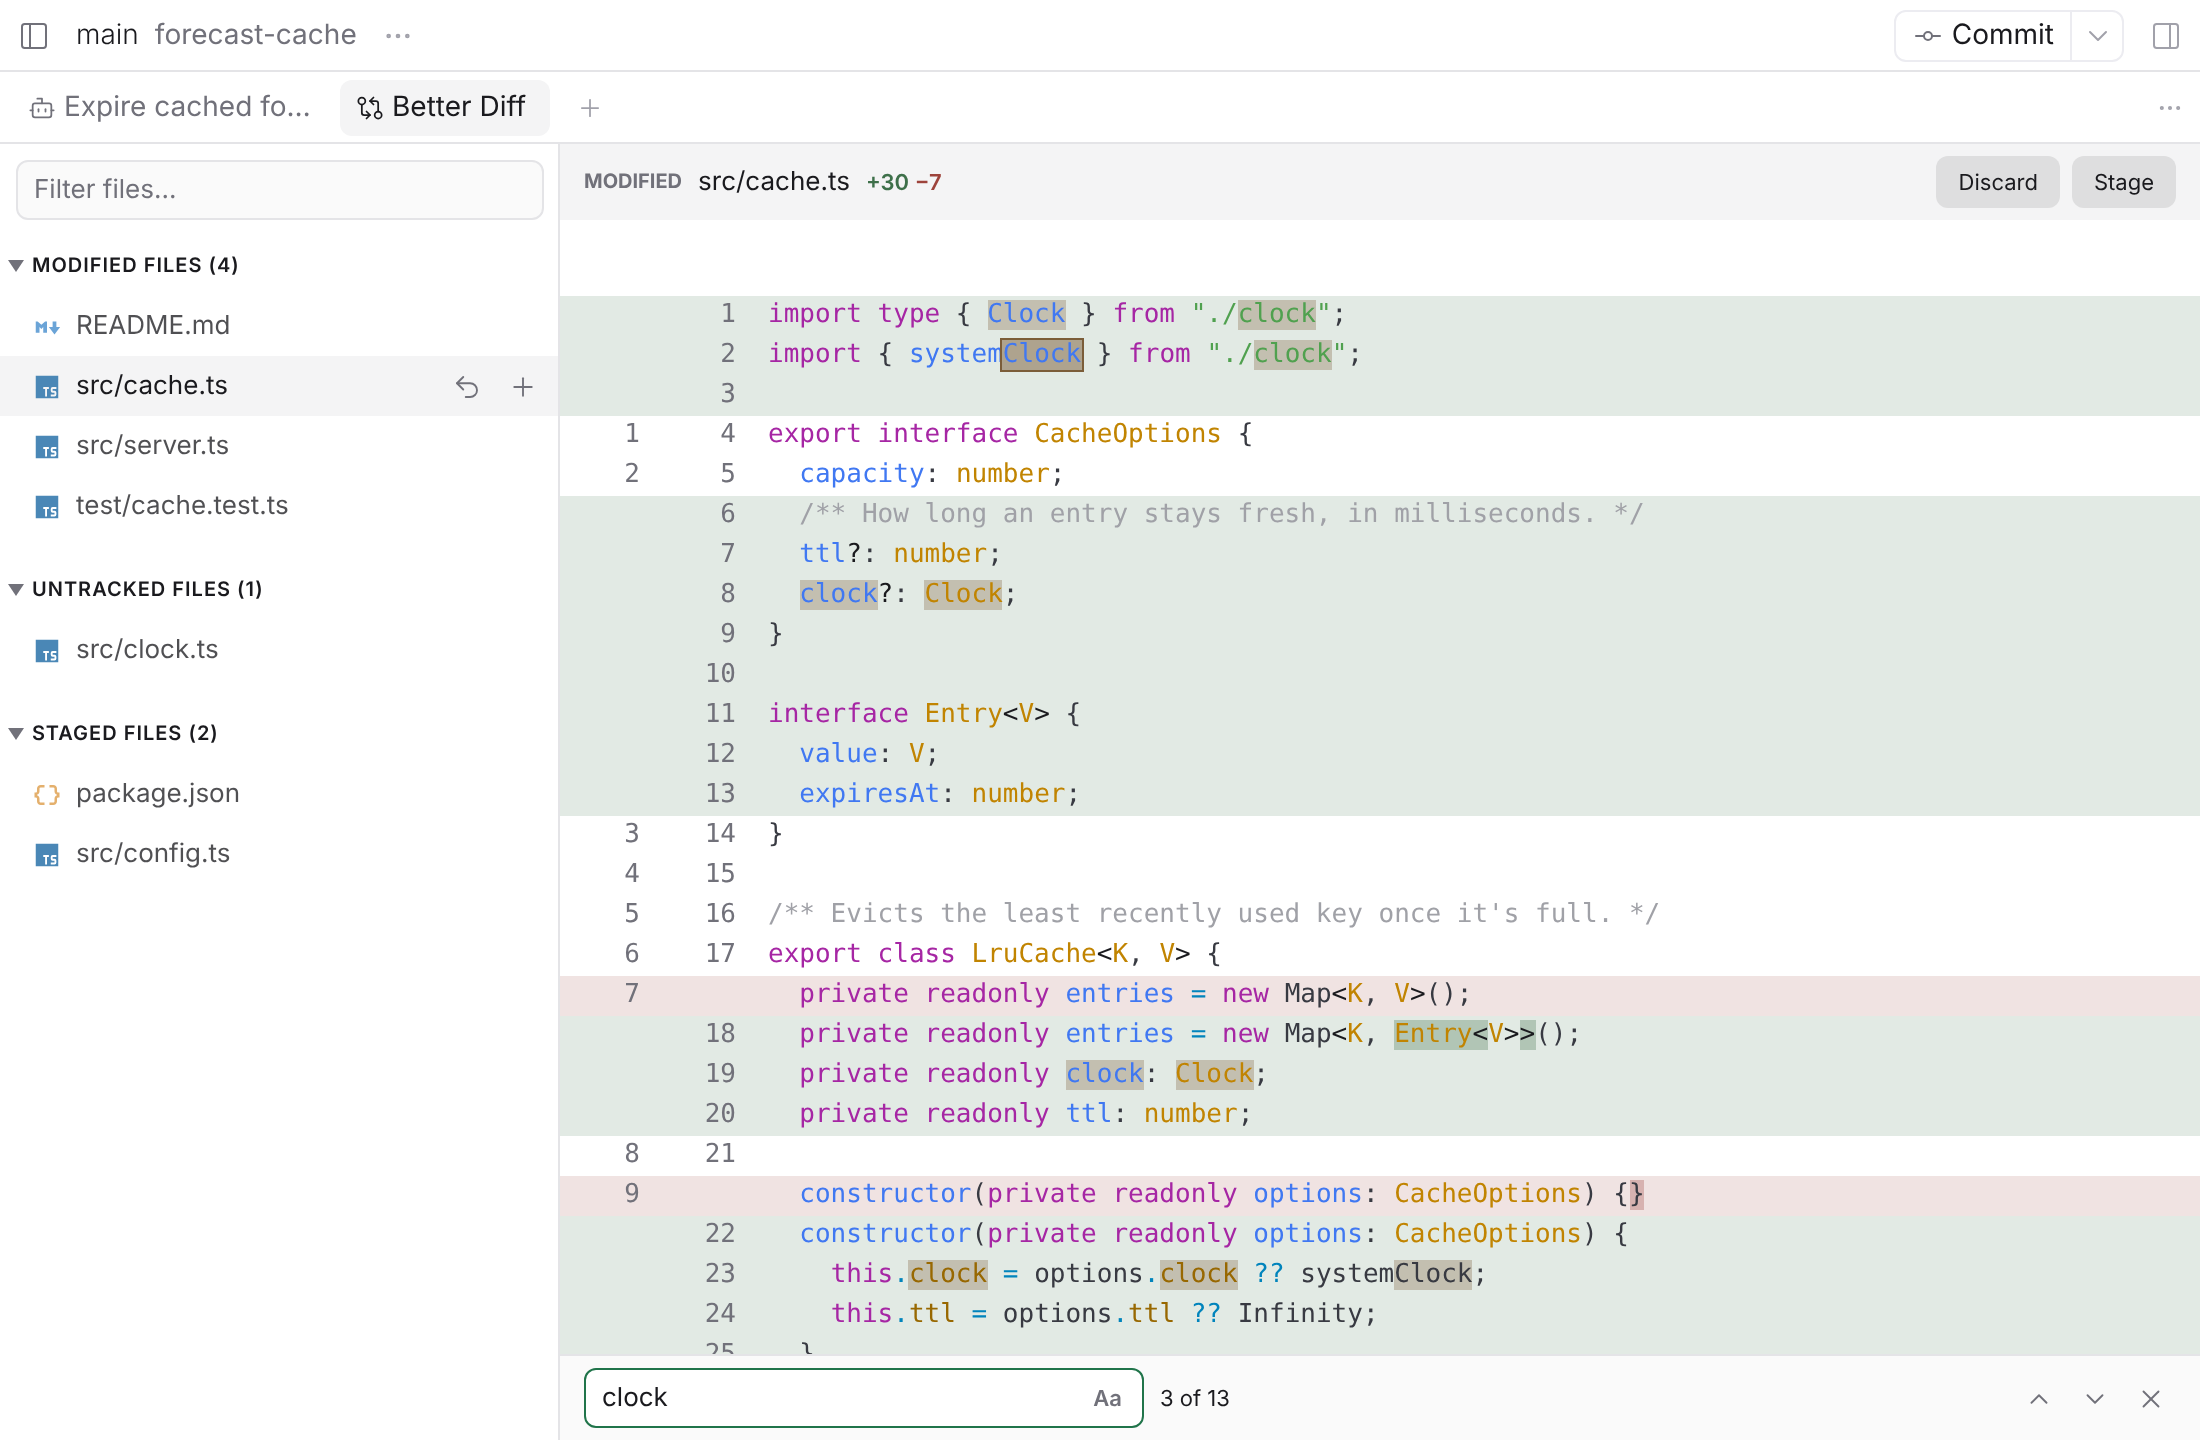
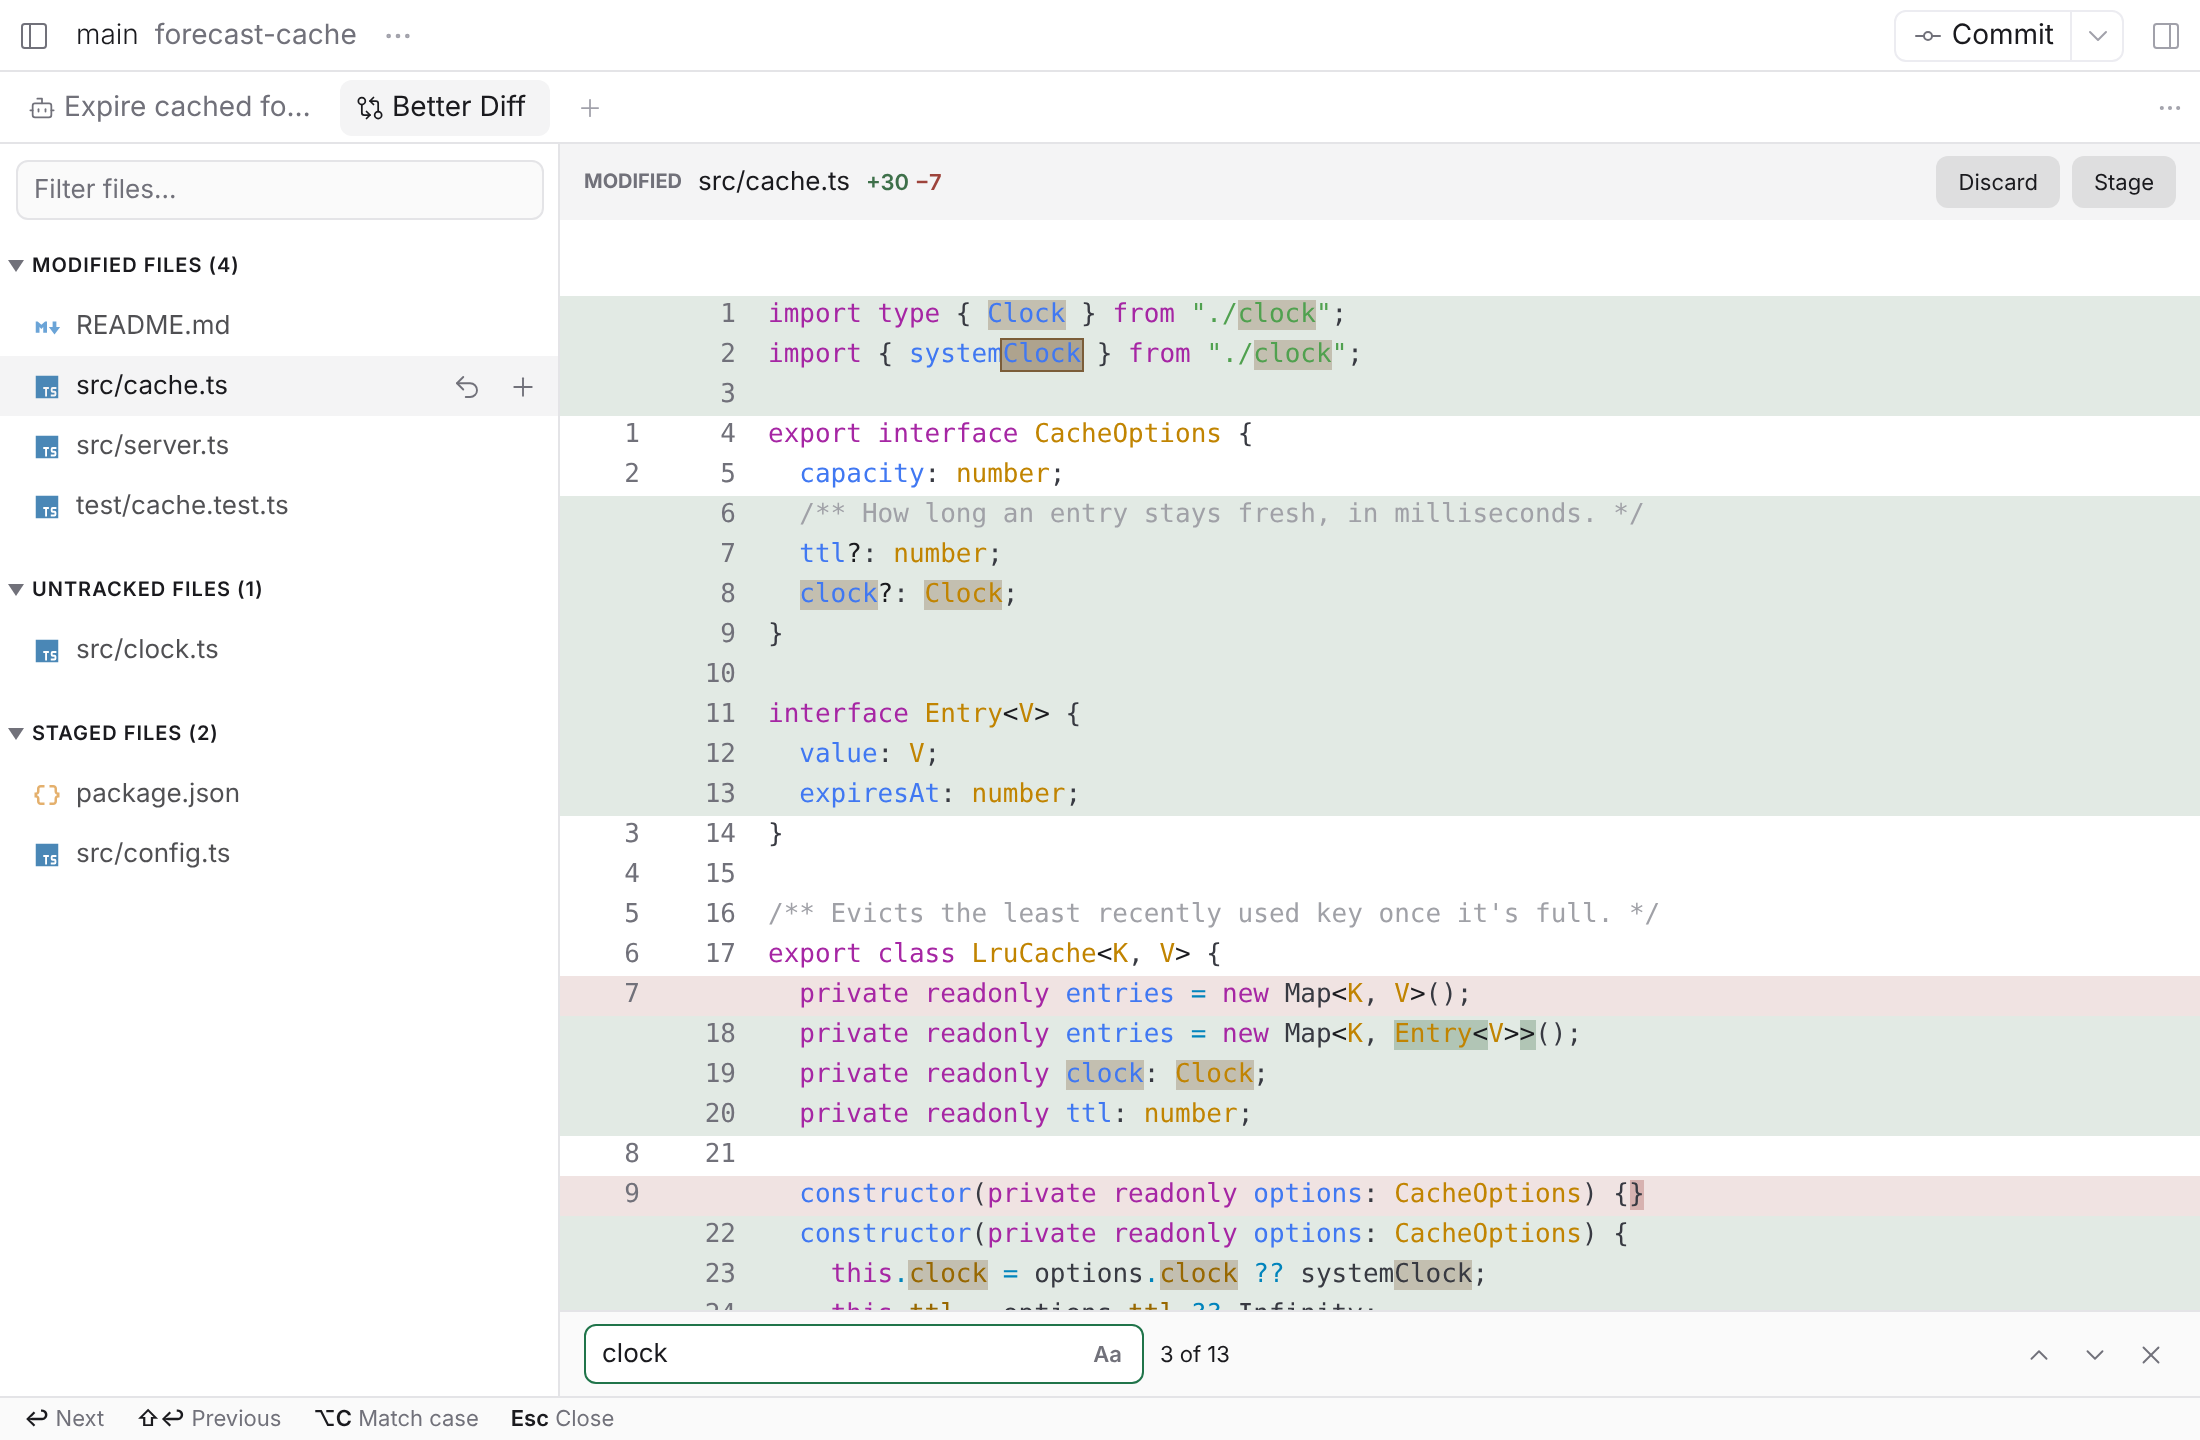
Bring the README's screenshots and SPEC.md's refresh times up to date
The screenshots now show the strip of keys along the bottom of the
panel, and the review's tab without the mark of unsaved work, which it
no longer has. A change nothing tells of shows within about 300 times
as long as git status takes where it's slow, not within a minute: the
long poll's timeout that bounded it is gone.

Changed region(s): [[0.0, 0.9062, 0.5564, 1.0], [0.5873, 0.9062, 0.6182, 0.9375]]

diff --git a/SPEC.md b/SPEC.md
@@ -154,7 +154,7 @@ As in Paseo's own diff, lines are commented on, and the comments sent to an agen
 ### Refreshing
 
 - The view refreshes as the worktree and the index change, as an agent changes them, within a second or so, whether or not Paseo's window has focus. While changes keep coming, `git status` runs a tenth of the time at most, so where it's slow, the view refreshes less often. Once the plugin's server stops telling of changes, as when it stops or starts again, the view asks it to again a second later, and twice as long after each time it has told of nothing since, up to ten seconds, until it does.
-- A change nothing tells of, as to a file outside the worktree that git reads, such as `core.excludesFile`, shows once Paseo's window regains focus, or within half a minute, or where `git status` is slow, within a minute.
+- A change nothing tells of, as to a file outside the worktree that git reads, such as `core.excludesFile`, shows once Paseo's window regains focus, or within half a minute, or where `git status` is slow, within about 300 times as long as it takes.
 - Once the open file leaves its group, the view moves on to the next file in it, or once it was the last, to the one before it. Only to one the filter shows, but whether the group is collapsed or not: the filter picks the files being worked on, while collapsing only tidies the sidebar. With none left, it moves on to the first file the sidebar lists in a group below, so staging one file after another goes on from MODIFIED to UNTRACKED and then to STAGED, or else to the first file it lists, as on opening Better Diff, and once it lists none, to none.
 - As an agent's change adds or removes lines above the line at the top of the view, in its file's diff or, in a group's view, in the diffs and files above it, that line stays in place. Once that line is gone, the line that takes its place is there instead: as many lines into those that replace the lines around it, or else the next line. A change of more than 1,000 lines added and removed at once isn't followed.
 - Unchanged lines shown after their file changed while they were hidden are the file's lines as they are then, never as they were when last shown: only the hunks show until the file's read again.

diff --git a/README.md b/README.md
@@ -4,7 +4,7 @@ A [Paseo](https://paseo.sh) plugin: a Sublime Merge-style diff and staging view 
 
 <picture>
   <source media="(prefers-color-scheme: dark)" srcset="docs/screenshots/side-by-side-dark.png">
-  <img alt="Better Diff in Paseo: the worktree's modified, untracked and staged files on the left, and a TypeScript file's diff side by side on the right, syntax highlighted, with changed words highlighted within lines" src="docs/screenshots/side-by-side-light.png">
+  <img alt="Better Diff in Paseo: the worktree's modified, untracked and staged files on the left, and a TypeScript file's diff side by side on the right, syntax highlighted, with changed words highlighted within lines, and along the bottom the keys that work on the hunk" src="docs/screenshots/side-by-side-light.png">
 </picture>
 
 > [!WARNING]
@@ -22,7 +22,7 @@ Stage, unstage and discard whole files, hunks or selected lines. Select lines wi
 
 <picture>
   <source media="(prefers-color-scheme: dark)" srcset="docs/screenshots/lines-dark.png">
-  <img alt="Two added lines selected in an inline diff, with a bar over them of Discard, Stage, Comment and Copy, and Stage Lines named above it with its key, Return" src="docs/screenshots/lines-light.png">
+  <img alt="Two added lines selected in an inline diff, with a bar over them of Discard, Stage, Comment and Copy, and Stage Lines named above it with its key, Return, and along the bottom the keys that work on the selected lines" src="docs/screenshots/lines-light.png">
 </picture>
 
 ### Review what agents change
@@ -40,7 +40,7 @@ Comment on a line, or on several, as you read. Comments stay pending, as in a Gi
 
 <picture>
   <source media="(prefers-color-scheme: dark)" srcset="docs/screenshots/find-dark.png">
-  <img alt="The find bar under a diff, finding clock, with its 13 matches highlighted and the third of them current" src="docs/screenshots/find-light.png">
+  <img alt="The find bar under a diff, finding clock, with its 13 matches highlighted and the third of them current, and along the bottom the find bar's keys" src="docs/screenshots/find-light.png">
 </picture>
 
 ### Keyboard first
